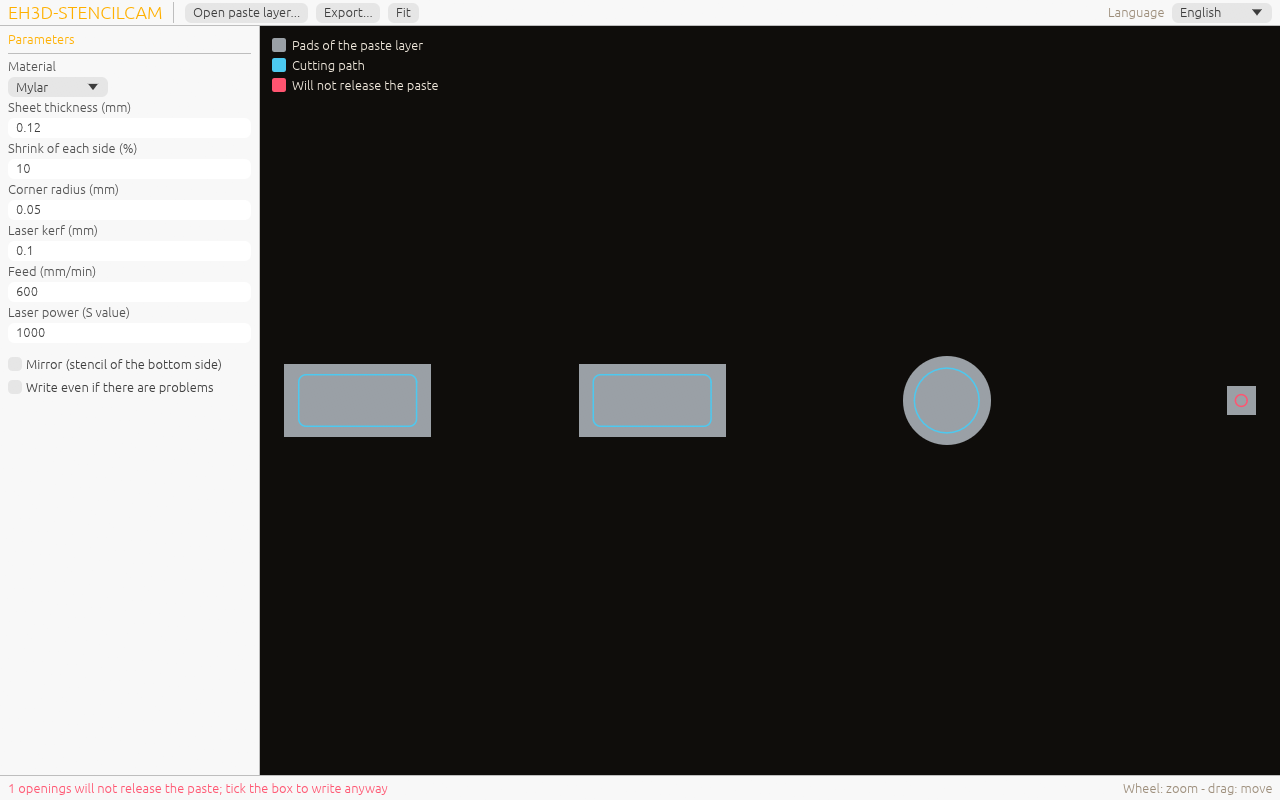
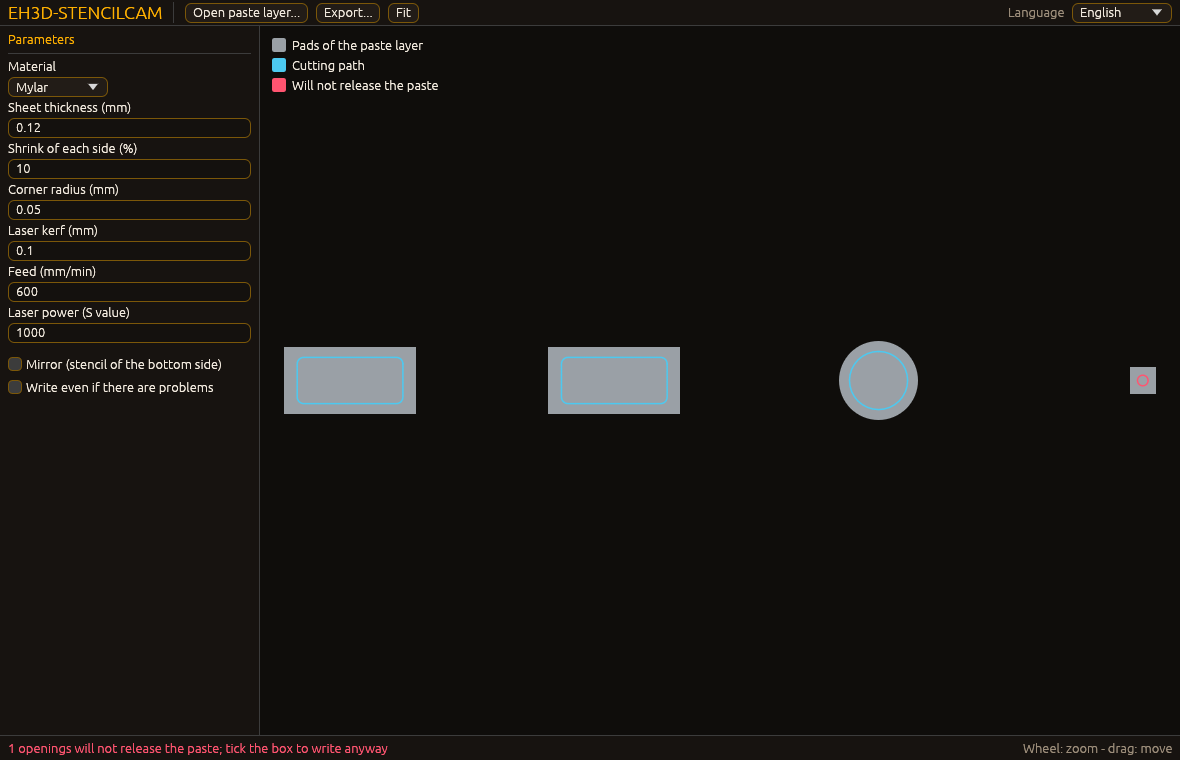
Pin the shared libraries at their new releases and renew the picture of the window (#3)

diff --git a/CHANGELOG.md b/CHANGELOG.md
@@ -4,6 +4,8 @@ All notable changes to this project are documented here.
 
 ## [Unreleased]
 
+- **The pins follow the new releases:** the CI and the release build take `EH3D-COMMON` at `v0.2.1` and `EH3D-CORE-LIBS` at `v0.0.9`, and the manifest asks for `min_common` 0.2.1. The picture of the window in the README is taken again with the program of today.
+
 ## [0.0.7] - DXF input, lead-in by form and speed, passes and laser scale settings
 
 - **Fuzz tests with a fixed seed:** every cut of the example drawing and 500 damaged copies of it, damaged layers and numbers that are huge or not numbers are read without a panic; an entity whose size or place overflows is left out with a note.
